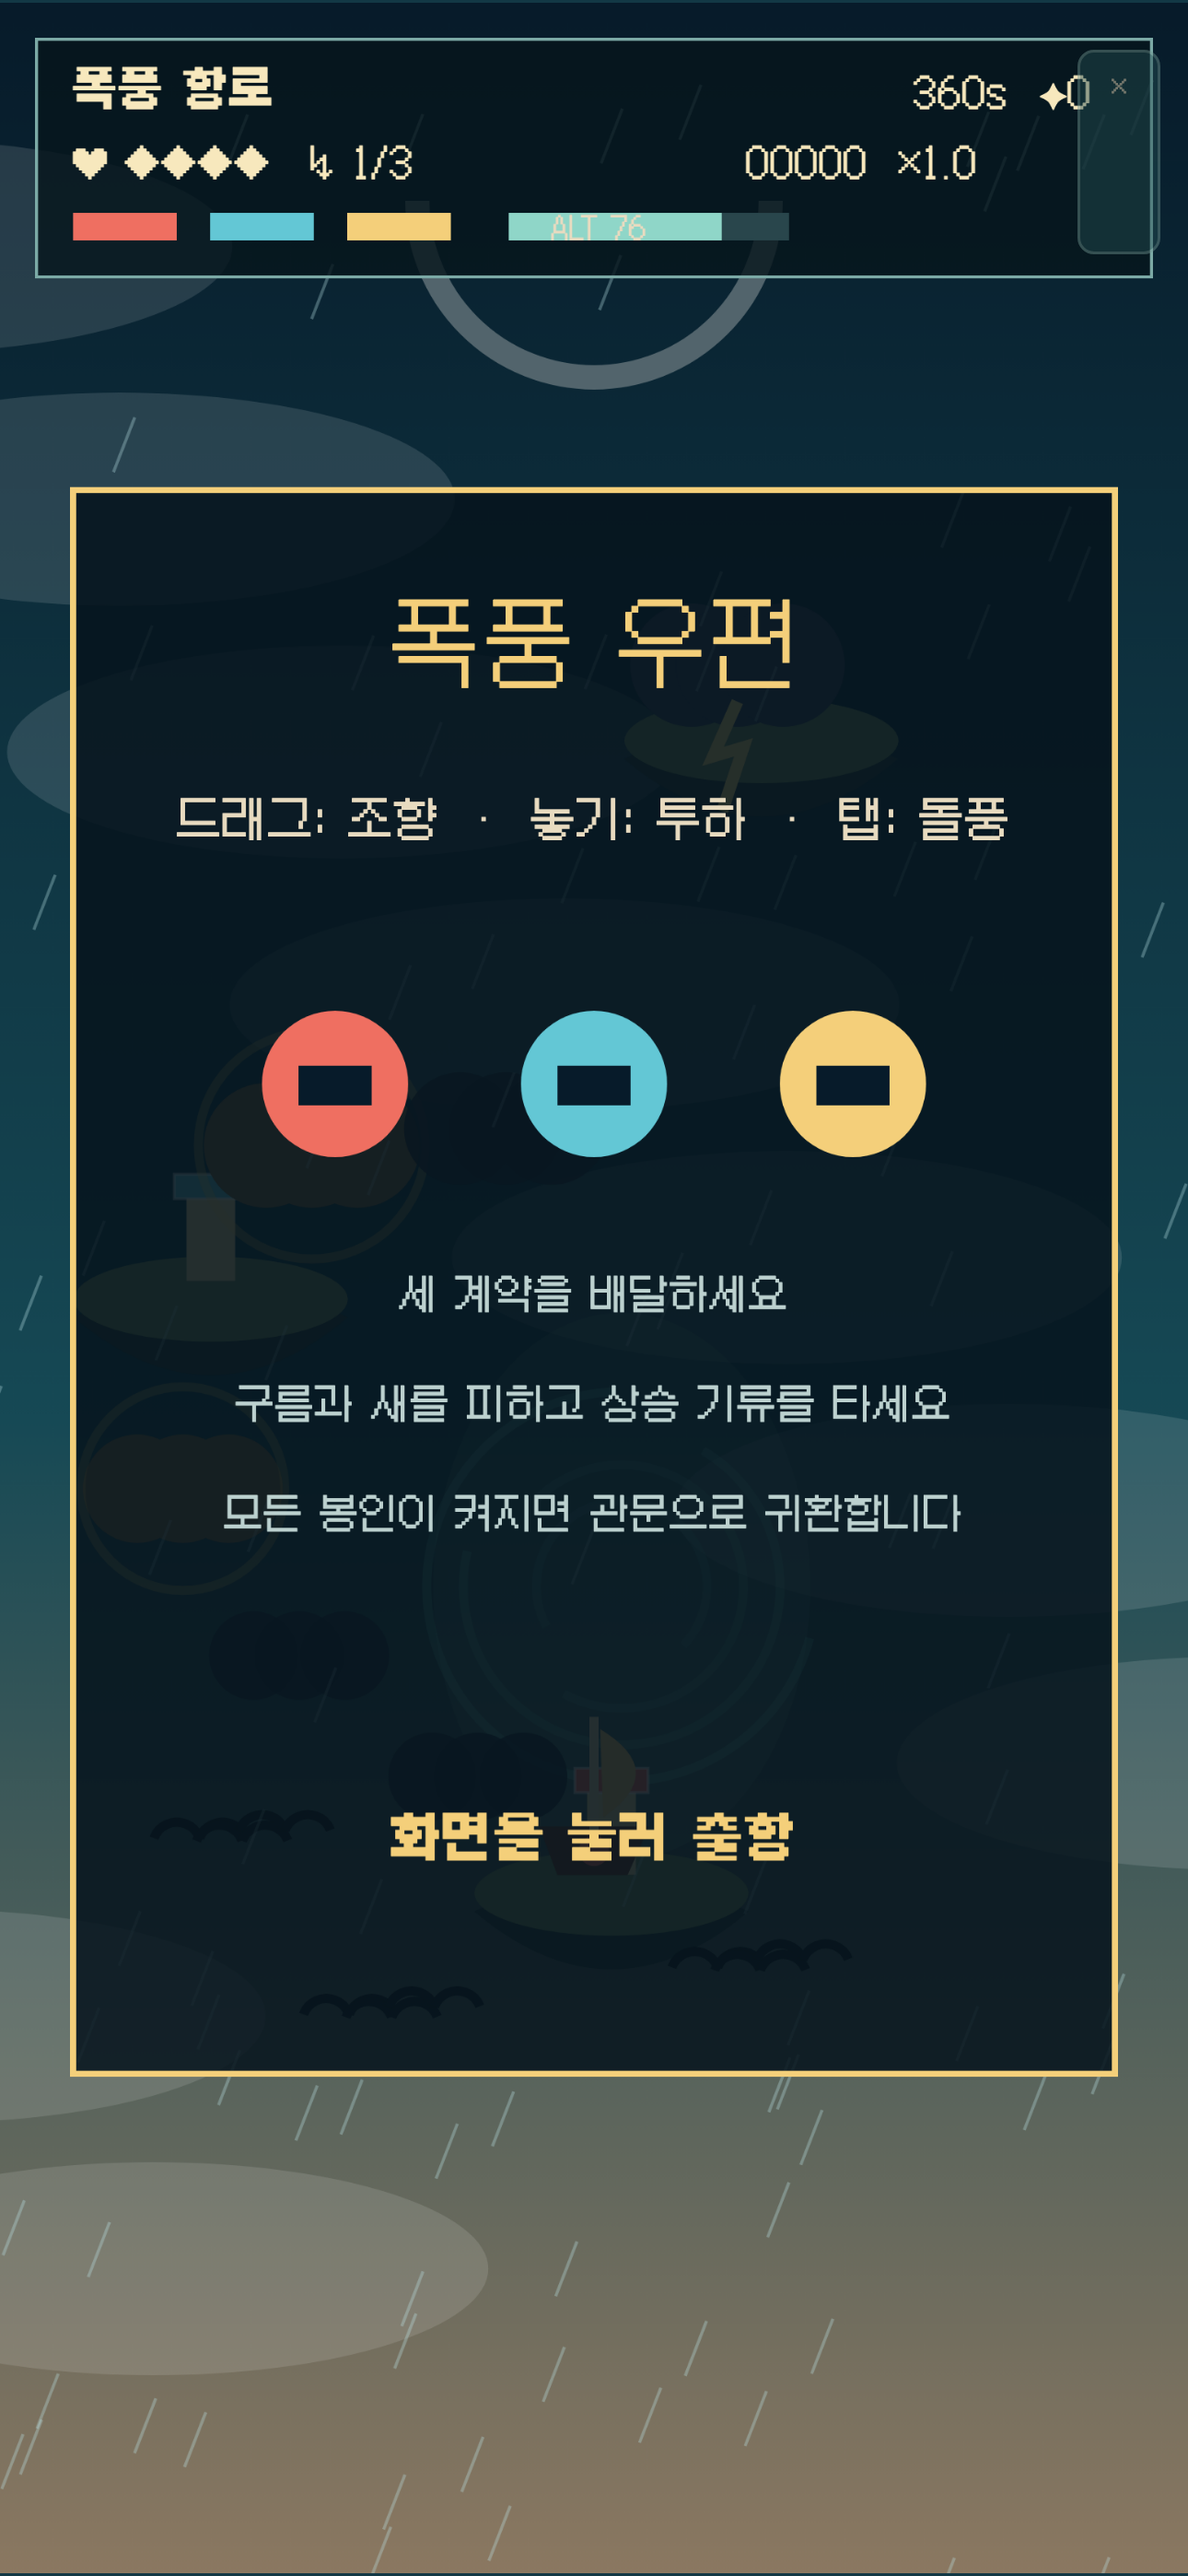
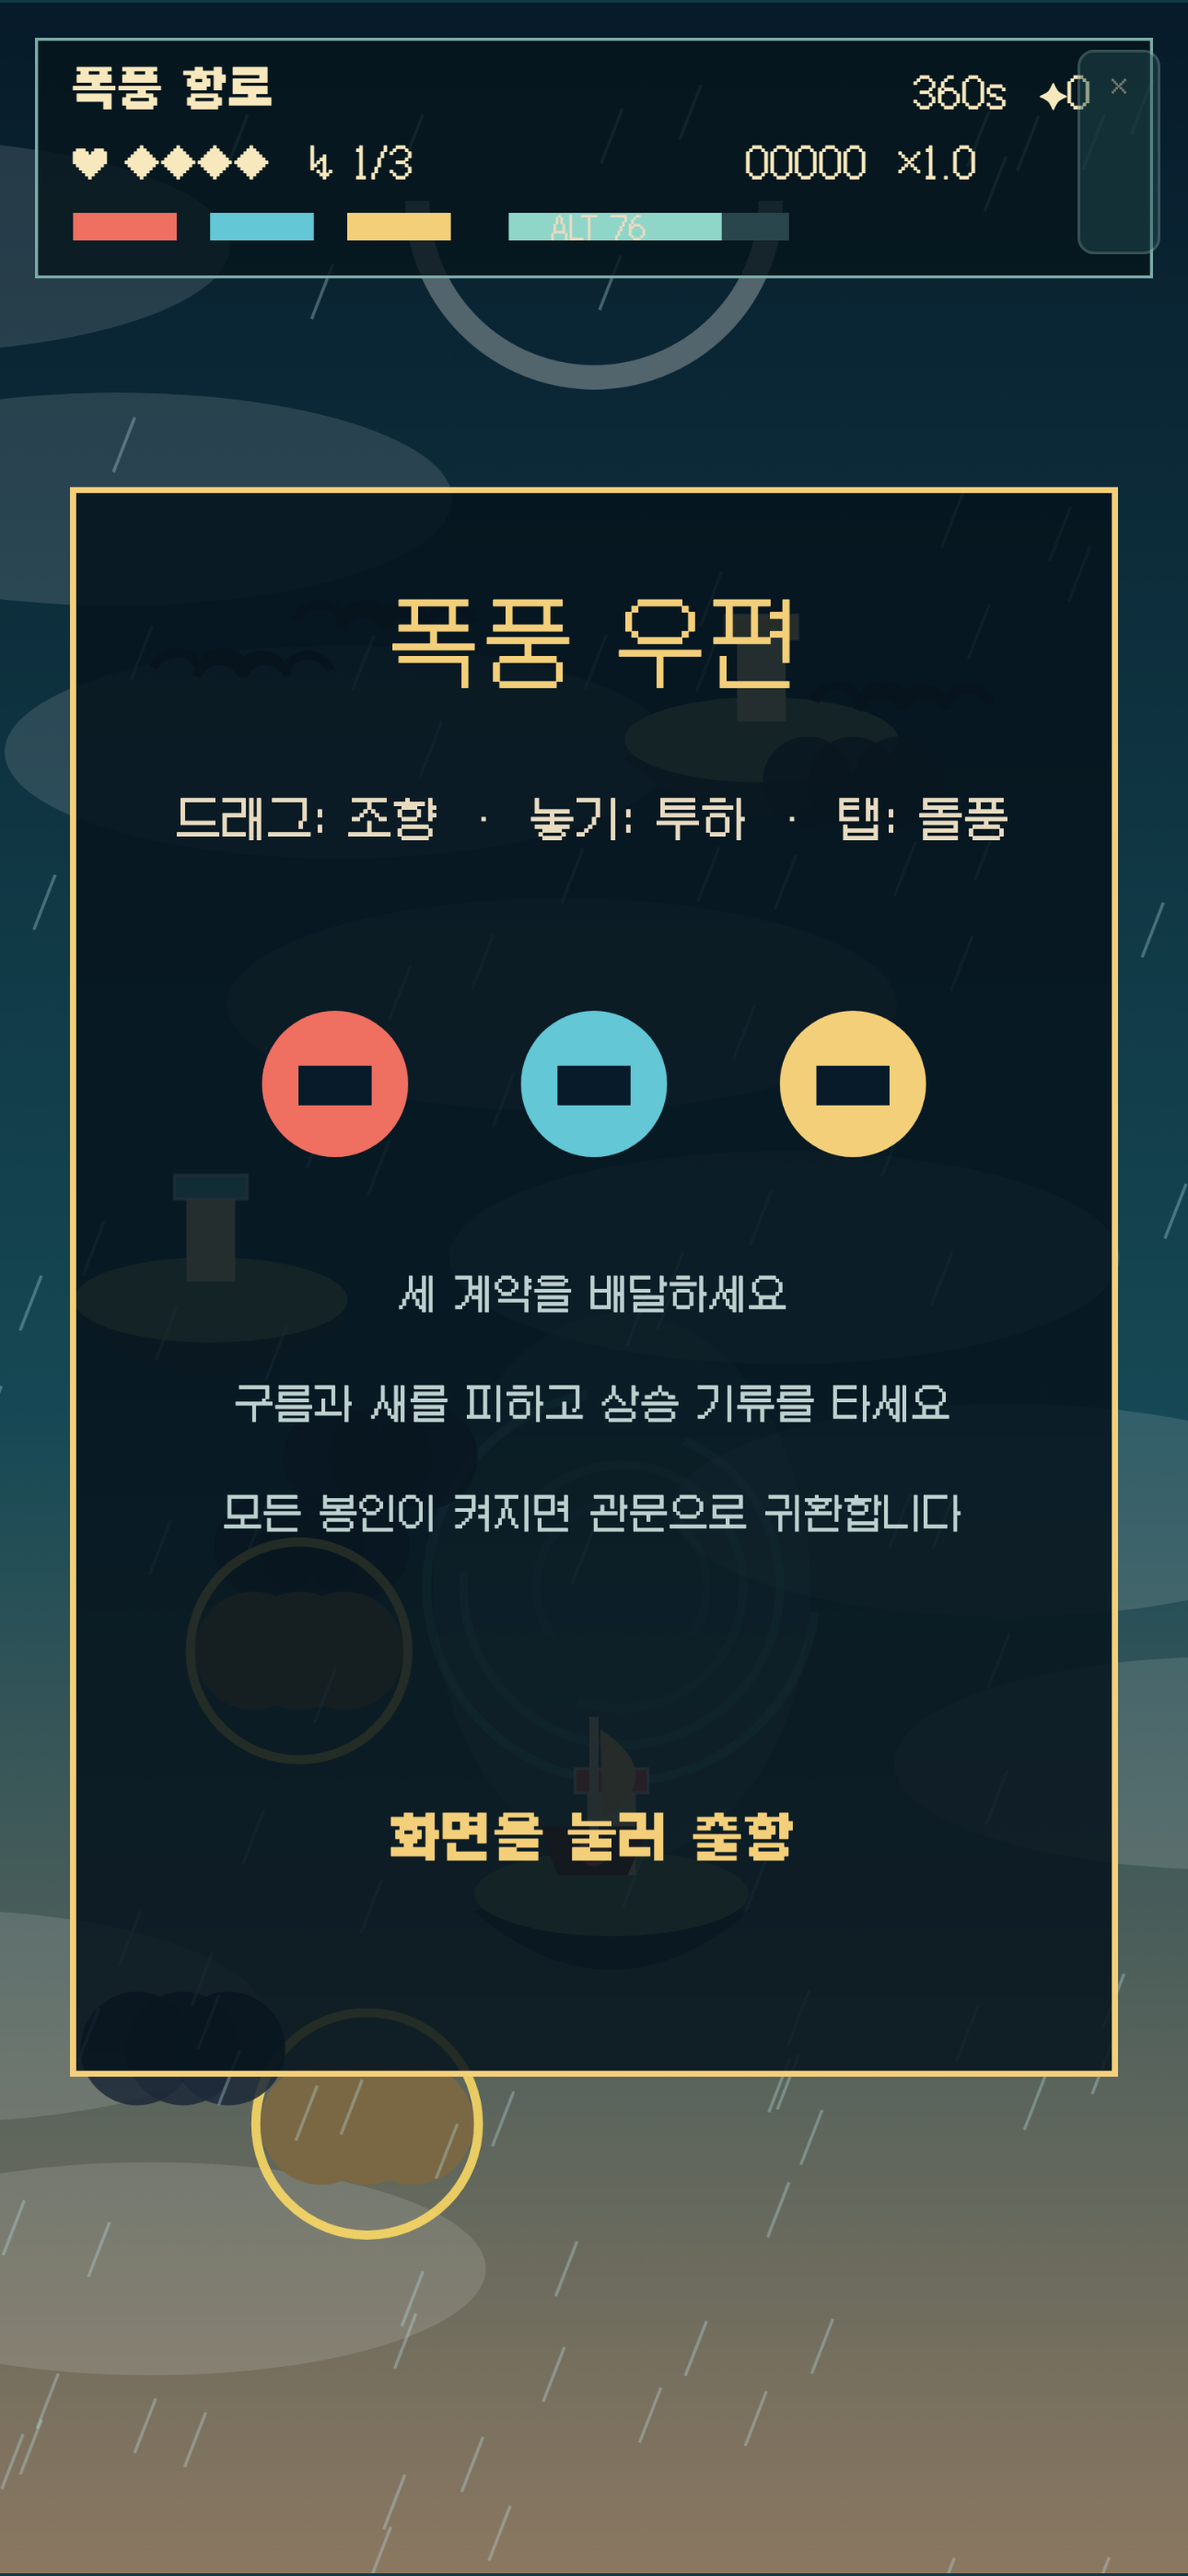
Guarantee Stormpost safe corridor clearance

diff --git a/src/game/StormpostGame.ts b/src/game/StormpostGame.ts
@@ -2,7 +2,7 @@ import { APP_CONFIG } from '../appConfig'
 import { getLocale } from '../i18n'
 import { logicRandom } from './logicRng'
 import type { GameCallbacks, GameRuntime } from './types'
-import { altitudeAfter, canOpenGate, cosmeticTier, deliveryScore, finalScore, generateRoute, grade, lightningPhase, placeOutsideCorridor, stampReward, wetFirstPending, type Letter, type Seal } from './stormpostRules'
+import { altitudeAfter, canOpenGate, corridorClearance, cosmeticTier, deliveryScore, finalScore, generateRoute, grade, lightningPhase, placeOutsideCorridor, stampReward, wetFirstPending, type Letter, type Seal } from './stormpostRules'
 import { StormAudio } from './StormAudio'
 
 const W = APP_CONFIG.designWidth
@@ -83,7 +83,7 @@ export class StormpostGame implements GameRuntime {
             this.canvas.style.width = `${W * scale}px`; this.canvas.style.height = `${H * scale}px`
         }
         fit(); this.resizeObs = new ResizeObserver(fit); this.resizeObs.observe(container)
-        for (let i = 0; i < 9; i++) {const rawX=35+logicRandom()*320;this.hazards.push({ x: placeOutsideCorridor(rawX,this.corridor.x,this.corridor.halfWidth), y: 120 + logicRandom() * 580, vx: (logicRandom() - .5) * 25, vy:18+logicRandom()*18, age:logicRandom()*4, kind: i % 3 ? 'cloud' : 'birds', r: 19 + logicRandom() * 12 })}
+        for (let i = 0; i < 9; i++) {const rawX=35+logicRandom()*320,kind=i%3?'cloud':'birds',r=19+logicRandom()*12;this.hazards.push({ x: placeOutsideCorridor(rawX,this.corridor.x,this.corridor.halfWidth,r), y: 120 + logicRandom() * 580, vx: (logicRandom() - .5) * 25, vy:18+logicRandom()*18, age:logicRandom()*4, kind, r })}
         for (let i = 0; i < 100; i++) this.rain.push({ x: logicRandom() * W, y: logicRandom() * H, s: 250 + logicRandom() * 300 })
         this.bind()
         ;(globalThis as any).__forceGameOver = () => this.finish(canOpenGate(this.letters))
@@ -157,7 +157,7 @@ export class StormpostGame implements GameRuntime {
         for (const h of this.hazards) {
             h.age+=dt;h.x += h.vx*dt;h.y+=h.vy*dt;if(h.y>H+35)h.y=95
             if (h.x < -30) h.x=W+30; if (h.x>W+30) h.x=-30
-            if(Math.abs(h.x-this.corridor.x)<this.corridor.halfWidth){h.x=placeOutsideCorridor(h.x,this.corridor.x,this.corridor.halfWidth);h.vx*=-1}
+            if(Math.abs(h.x-this.corridor.x)<corridorClearance(this.corridor.halfWidth,h.r)){h.x=placeOutsideCorridor(h.x,this.corridor.x,this.corridor.halfWidth,h.r);h.vx*=-1}
             const dangerous=h.kind==='birds'||lightningPhase(h.age)==='active'
             if (dangerous&&this.ship.inv <= 0 && Math.hypot(this.ship.x-h.x,this.ship.y-h.y)<h.r+17) this.hit(h.x)
         }

diff --git a/src/game/stormpostRules.test.ts b/src/game/stormpostRules.test.ts
@@ -1,5 +1,5 @@
 import { describe, expect, it } from 'vitest'
-import { altitudeAfter, canOpenGate, cosmeticTier, deliveryScore, finalScore, generateRoute, grade, lightningPhase, placeOutsideCorridor, stampReward, wetFirstPending, type Letter } from './stormpostRules'
+import { altitudeAfter, canOpenGate, corridorClearance, cosmeticTier, deliveryScore, finalScore, generateRoute, grade, lightningPhase, placeOutsideCorridor, stampReward, wetFirstPending, type Letter } from './stormpostRules'
 
 const letters = (): Letter[] => [
     { seal: 'coral', wet: false, delivered: false },
@@ -53,15 +53,28 @@ describe('Stormpost delivery contract', () => {
         expect(altitudeAfter(60,1,true)).toBe(82)
         expect(altitudeAfter(98,1,true)).toBe(100)
     })
-    it('guarantees a hazard-free corridor across many seeded layouts',()=>{
+    it('guarantees collision-shape clearance across seeded routes and movement steps',()=>{
         for(let seed=1;seed<=200;seed++){
             let state=seed>>>0
             const random=()=>((state=(state*1664525+1013904223)>>>0)/4294967296)
             const route=generateRoute(random)
-            for(let n=0;n<30;n++){
-                const raw=35+random()*320
-                const placed=placeOutsideCorridor(raw,route.corridor.x,route.corridor.halfWidth)
-                expect(Math.abs(placed-route.corridor.x)).toBeGreaterThanOrEqual(route.corridor.halfWidth)
+            for(const kind of ['cloud','birds'] as const){
+                const radius=kind==='cloud'?31:19
+                for(let n=0;n<30;n++){
+                    let x=35+random()*320
+                    let vx=(random()-.5)*25
+                    let safe=true
+                    for(let step=0;step<120;step++){
+                        x+=vx/60
+                        const required=corridorClearance(route.corridor.halfWidth,radius)
+                        if(Math.abs(x-route.corridor.x)<required){
+                            x=placeOutsideCorridor(x,route.corridor.x,route.corridor.halfWidth,radius)
+                            vx*=-1
+                        }
+                        safe&&=Math.abs(x-route.corridor.x)>=required
+                    }
+                    expect(safe).toBe(true)
+                }
             }
         }
     })

diff --git a/src/game/stormpostRules.ts b/src/game/stormpostRules.ts
@@ -62,9 +62,21 @@ export function lightningPhase(age:number):LightningPhase {
     return cycle<1?'warning':cycle<1.65?'active':'cooldown'
 }
 
-export function placeOutsideCorridor(x:number,corridorX:number,halfWidth:number){
-    if(Math.abs(x-corridorX)>=halfWidth)return x
-    return x<corridorX?Math.max(25,corridorX-halfWidth):Math.min(365,corridorX+halfWidth)
+export const SHIP_COLLISION_RADIUS=17
+export function corridorClearance(halfWidth:number,hazardRadius:number){
+    return halfWidth+hazardRadius+SHIP_COLLISION_RADIUS
+}
+export function placeOutsideCorridor(x:number,corridorX:number,halfWidth:number,hazardRadius:number){
+    const required=corridorClearance(halfWidth,hazardRadius)
+    if(Math.abs(x-corridorX)>=required)return x
+    const left=corridorX-required, right=corridorX+required
+    const leftValid=left>=25, rightValid=right<=365
+    if(leftValid&&rightValid)return x<corridorX?left:right
+    if(leftValid)return left
+    if(rightValid)return right
+    // Route generation constrains corridorX so this is unreachable for the
+    // game's maximum radius, but retain the farther edge as a safe fallback.
+    return corridorX-25>365-corridorX?25:365
 }
 
 export function altitudeAfter(altitude:number,dt:number,inLift:boolean){

diff --git a/DAY.md b/DAY.md
@@ -22,17 +22,17 @@
   - 결과: 테스트 파일 4개, 테스트 30개 통과. 고도 감소·상승 기류 회복과 200개 시드×30개 위험의 안전 통로 불변조건을 추가했다.
 - `npm run build`
   - TypeScript 검사와 프로덕션 웹 번들을 확인했다.
-  - 결과: 성공. 메인 JS 238.93 kB(78.37 kB gzip). Capacitor 동적/정적 import 경고 1건, 빌드 오류 없음.
+  - 결과: 성공. 메인 JS 239.06 kB(78.45 kB gzip). Capacitor 동적/정적 import 경고 1건, 빌드 오류 없음.
 - `npm run build:arcade`
   - 불변 릴리스 파일 생성과 필수 파일 해시 검증을 확인했다.
-  - 결과: 성공. 5개 파일, 1,618,433 bytes, JS gzip 92,826 bytes. `verify-release` 통과.
+  - 결과: 성공. 5개 파일, 1,618,633 bytes, JS gzip 92,912 bytes. `verify-release` 통과.
 - `npm run csp`
   - 아케이드 샌드박스 CSP, 외부 스타일, 캔버스 배치와 필수 자산을 확인했다.
   - 결과: 통과. CSP 위반·오류·누락 자산 0.
 - `npm run smoke -- 17 90000`
   - 실제 포인터 반응, 한 판 종료, 셸 결과 전달, 결과 화면 탭 재시작, 페이지·콘솔 오류를 확인했다.
   - 결과: deployment-only 모드 성공. `mounted=true`, 콘솔·페이지 오류 0.
[2 lines of base64/hex data omitted]
 - `npm run viewport`
   - 360×800, 390×844, 430×932 및 900×760에서 standalone/portal 레터박스, DPR 백킹 스토어, 페이지 넘침을 확인했다.
   - 한국어·영어 결과 화면은 가장 작은 360×800 standalone/portal에서 강제 종료 후 경계를 확인했다.
@@ -43,6 +43,7 @@
 - 합성 음향 자체 대조: 첫 입력 전에는 AudioContext를 만들지 않고, 첫 입력 뒤 바람 드론·좌우 패닝·돛 장력·돌풍·충돌·배달·관문 화음을 연결했다. M 음소거, P/백그라운드/결과 suspend, 재시작 resume, destroy close를 소스와 오류 없는 브라우저 실행으로 확인했다.
 - 체르파 누락 보완: 시드 기반 세 섬·상승 기류, 하향 위험과 구름층 전진, 경고 후 활성 번개, 종료 점수 우표와 4/9/15 외형을 구현·테스트했다.
 - 체르파 2차 보완: 관찰 가능한 ALT 상태와 고도 상실 선체 피해를 추가했다. 상승 기류는 고도와 돌풍을 함께 회복한다. 생성기는 폭 76px 안전 통로를 선언하고 위험이 이동 중에도 진입하지 못하게 반사한다.
+- 체르파 3차 보완: 안전 통로 판정을 위험 중심이 아닌 충돌 원으로 강화했다. `38px + 위험 반경 + 선체 17px` clearance를 생성·이동에 공통 적용하고, 200개 시드에서 구름/새 각각 30개·120 이동 단계의 침범 없음으로 확인했다.
 - 수동 미확인: 실제 모바일 기기의 햅틱 강도와 음량·공간감, 장시간 6분 밸런스, Toss 컨테이너.
 
 ## 결과

diff --git a/GDD.md b/GDD.md
@@ -38,7 +38,7 @@
 ## 절차 항로
 
 - 시드에 따라 세 섬과 상승 기류의 좌우 위치, 구름·새 배치를 만든다. 구름층 스크롤이 전진 카메라 감각을 만든다.
-- 세 목적지는 항상 서로 다른 색이다. 상승 기류 중심을 잇는 폭 76px 세로 안전 통로를 생성하고, 모든 위험의 초기 위치와 이동을 통로 밖으로 밀어 시작점에서 관문까지 진행 가능하게 보장한다.
+- 세 목적지는 항상 서로 다른 색이다. 상승 기류 중심을 잇는 폭 76px 세로 안전 통로를 생성한다. 위험 중심은 통로 반폭 38px에 해당 위험 반경과 선체 충돌 반경 17px을 더한 거리 밖에 두고, 이동 중에도 같은 clearance에서 반사해 충돌 원이 통로를 침범하지 않도록 보장한다.
 - 위험은 아래로 흐르고 화면 아래를 지난 뒤 상단으로 순환하며, 새 떼는 횡단한다. 번개 구름은 1초 경고 → 0.65초 활성 → 쿨다운을 순환하고 활성 구간에만 피해를 준다.
 
 ## 입력·접근성

diff --git a/ART.md b/ART.md
@@ -12,6 +12,7 @@
 - 사용 위치: 타이틀, 항로, HUD, 계약·결과 화면 전체.
 - 절차 변형: 시드로 섬·상승 기류·위험 위치를 정하고, 누적 우표 4/9/15에서 선체 색·돛 색·금빛 돌풍 고리를 코드 도형으로 바꾼다.
 - 상태 표현: HUD의 청록 ALT 막대가 고도를 표시하며 25 미만에서 산호색 경고로 바뀐다.
+- 안전 통로 표현은 별도 장식선을 추가하지 않고 상승 기류의 청록 동심호를 항로 중심 표식으로 사용한다. 실제 판정은 위험 도형 반경과 선체 충돌 반경까지 포함한다.
 
 ## 게임 사운드
 
